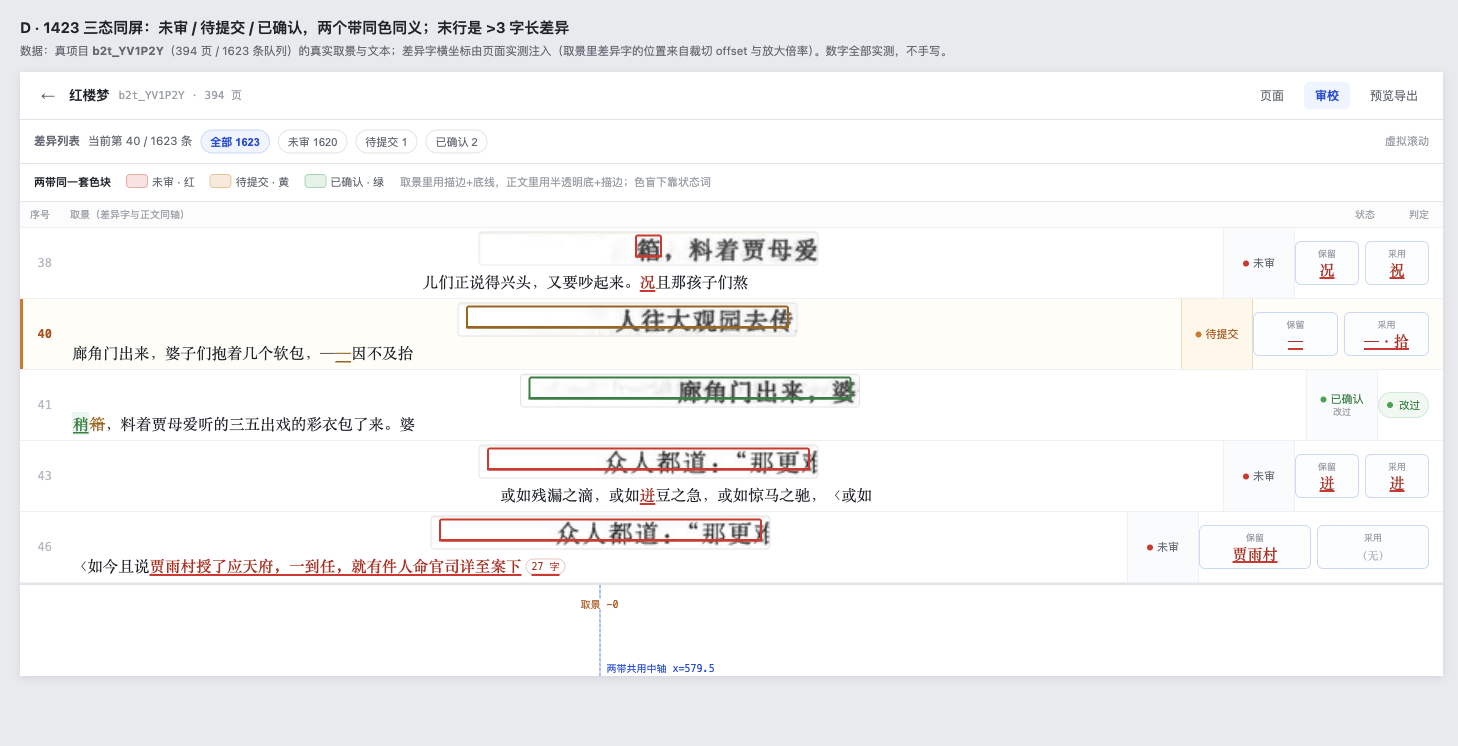
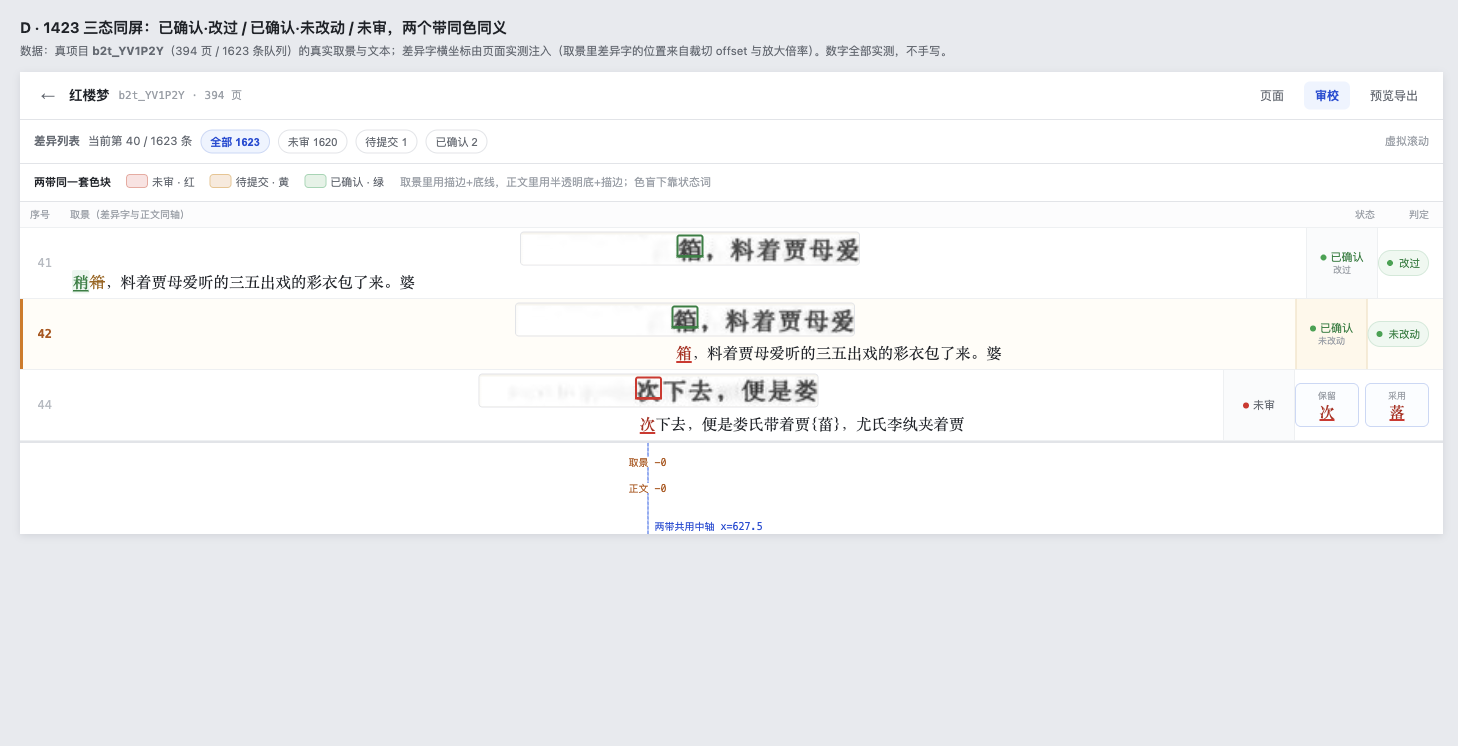
docs(ux): 上下排布帧只保留已验证一致的行（41/42/44），取景与正文逐行同源
- 帧 A/C/D 由 7 行减为 3 行：对不上的行删掉，不硬凑（演示图只需证明版式）
- 41/42 = pg10 L23「箱，料着贾母爱听的三五出戏的彩衣包了来。婆」（y0=1603, x=340）
- 44 = pg10 L0「次下去，便是娄氏带着贾{菑}…」（y0=123, x=341，行首字）
- 轴 50%、行高 71/106、布局与三态样式一律未动
- 实测：两带中轴差 −1px（42/44；41 为无差异字行）；行高 A/D 71、C 106

diff --git a/docs/ux/review-cat-stacked-mockup.html b/docs/ux/review-cat-stacked-mockup.html
@@ -144,10 +144,10 @@ const ROWS={
  '38':{pg:'pg10',y0:1603,dx:340,lineW:29},            // 「箱」
  '39':{pg:'pg10',y0:1217,dx:0,  lineW:29,whole:true}, // 无单字差异 → 高亮整行
  '40':{pg:'pg10',y0:1281,dx:0,  lineW:29,whole:true},
- '41':{pg:'pg10',y0:1539,dx:0,  lineW:29,whole:true},
- '42':{pg:'pg11',y0:123, dx:0,  lineW:29,whole:true},
+ '41':{pg:'pg10',y0:1603,dx:340,lineW:29},
+ '42':{pg:'pg10',y0:1603,dx:340,lineW:29},
  '43':{pg:'pg12',y0:187, dx:0,  lineW:29,whole:true},
- '44':{pg:'pg10',y0:1217,dx:38, lineW:29},            // 贴页边：「疾」在 x=38
+ '44':{pg:'pg10',y0:123, dx:341,lineW:29},            // L0「次下去…」行首字 x=341
  '45':{pg:'pg10',y0:1603,dx:340,lineW:29},
  '46':{pg:'pg12',y0:187,dx:0,lineW:29,whole:true},
 };
@@ -156,14 +156,14 @@ const TXT={
  '39':'夜，怪冷的。也罢！且叫他们歇歇，把咱们<span class="d">的</span>女',
  '40':'廊角门出来，婆子们抱着几个软包，—<span class="e">—</span>因不及抬',
  '41':'<span class="chg">稍</span><span class="rm">箱</span>，料着贾母爱听的三五出戏的彩衣包了来。婆',
- '42':'来逛逛？你们如今唱什么？才刚八出《八义》，闹的',
+ '42':'<span class="d">箱</span>，料着贾母爱听的三五出戏的彩衣包了来。婆',
  '43':'或如残漏之滴，或如<span class="d">迸</span>豆之急，或如惊马之驰，〈或如',
- '44':'<span class="d">疾</span>电之光而忽暗，其鼓声慢，传梅亦慢，鼓声疾，传',
+ '44':'<span class="d">次</span>下去，便是娄氏带着贾{菑}，尤氏李纨夹着贾',
  '45':'<span class="d">箱</span>，料着贾母爱听的三五出戏的彩衣包了来。婆',
  '46':'〈如今且说<span class="d">贾雨村授了应天府，一到任，就有件人命官司详至案下</span>',
 };
 const ST={'38':['un','未审'],'39':['un','未审'],'40':['ed','待提交'],'41':['ok','已确认','改过'],'42':['ok','已确认','未改动'],'43':['un','未审'],'44':['un','未审'],'45':['un','未审'],'46':['un','未审']};
-const KEEP={'38':['况','祝'],'39':['的',''],'40':['—','—·拾'],'43':['迸','进'],'44':['疾',''],'45':['箱','稍'],'46':['贾雨村','']};
+const KEEP={'38':['况','祝'],'39':['的',''],'40':['—','—·拾'],'43':['迸','进'],'44':['次','落'],'45':['箱','稍'],'46':['贾雨村','']};
 const LONGROWS={'46':true};
 
 /* ================== 行内构件 ================== */
@@ -209,13 +209,13 @@ function txHTML(id,long){
 /* ================== 帧渲染 ================== */
 const FR={
  A:{title:'A · 1423 默认态：取景带在上、正文带在下，两带差异字落在同一条竖线；按钮跨两带居中',
-    w:1423,rows:['38','39','40','41','42','43','44'],cur:'40',mode:'A'},
+    w:1423,rows:['41','42','44'],cur:'42',mode:'A'},
  B:{title:'B · 1423 双版本按钮三种放法（同一屏三段，其余完全不变）',
     w:1423,rows:['38','43','44'],cur:'38',mode:'B'},
  C:{title:'C · 628 窄窗：取景 240、正文全宽、按钮折行',
-    w:628,rows:['38','40','43','44'],cur:'40',mode:'C'},
- D:{title:'D · 1423 三态同屏：未审 / 待提交 / 已确认，两个带同色同义；末行是 >3 字长差异',
-    w:1423,rows:['38','40','41','43','46'],cur:'40',mode:'D'},
+    w:628,rows:['41','42','44'],cur:'42',mode:'C'},
+ D:{title:'D · 1423 三态同屏：已确认·改过 / 已确认·未改动 / 未审，两个带同色同义',
+    w:1423,rows:['41','42','44'],cur:'42',mode:'D'},
 };
 
 function topbar(){
